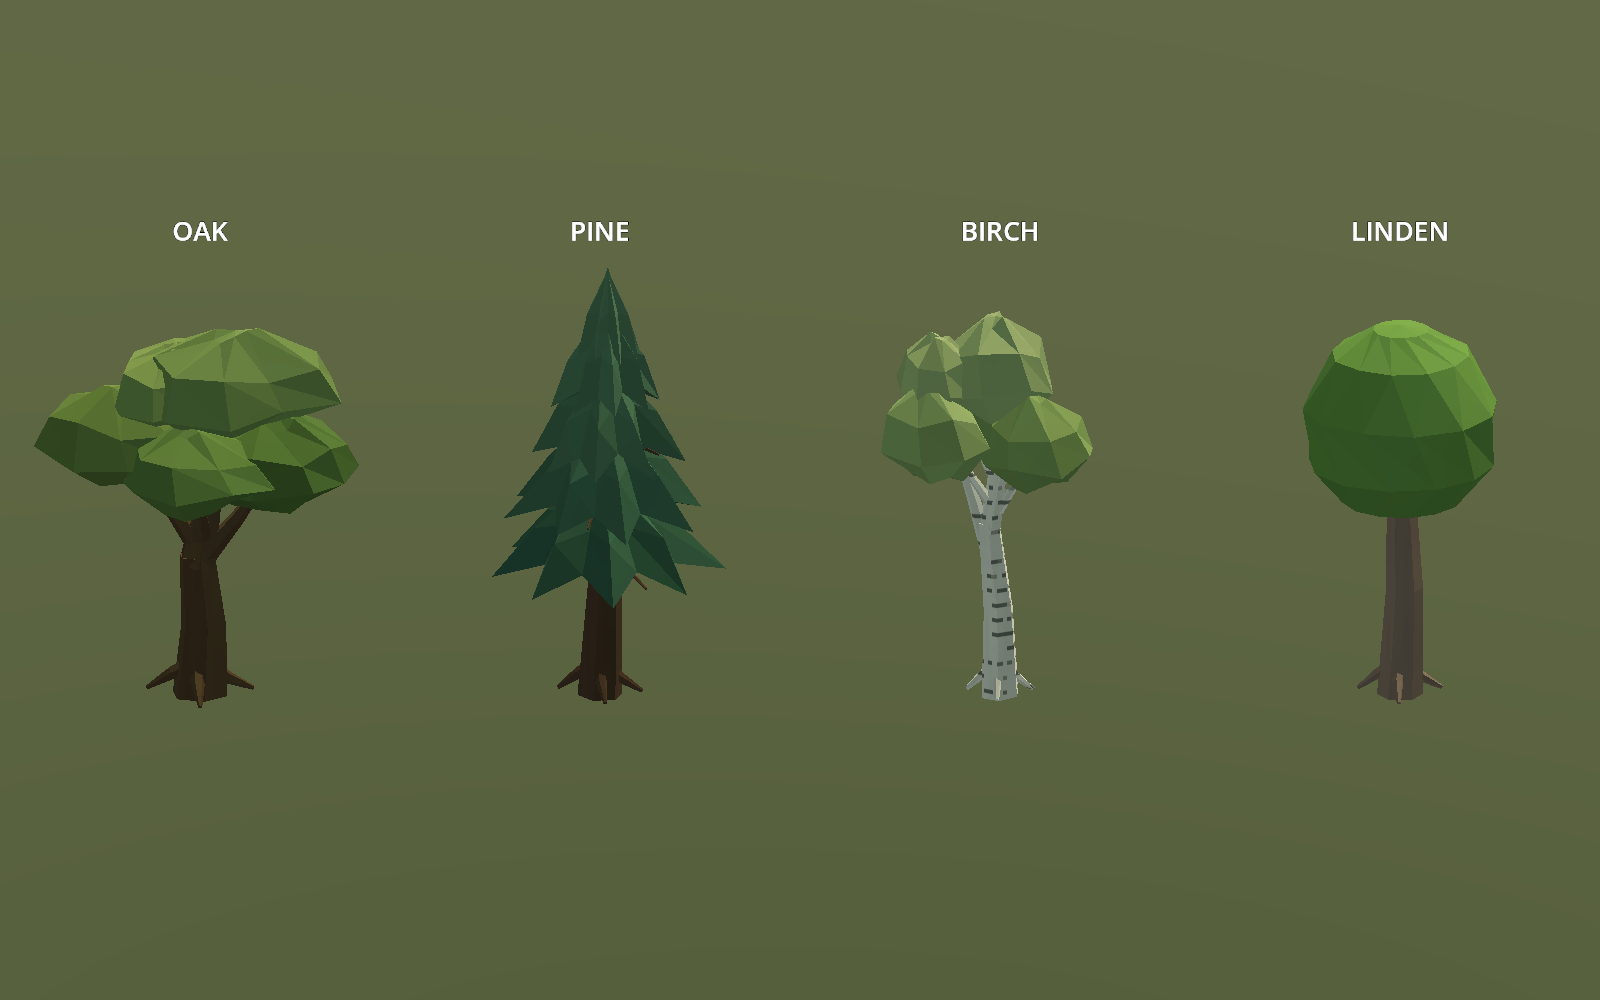
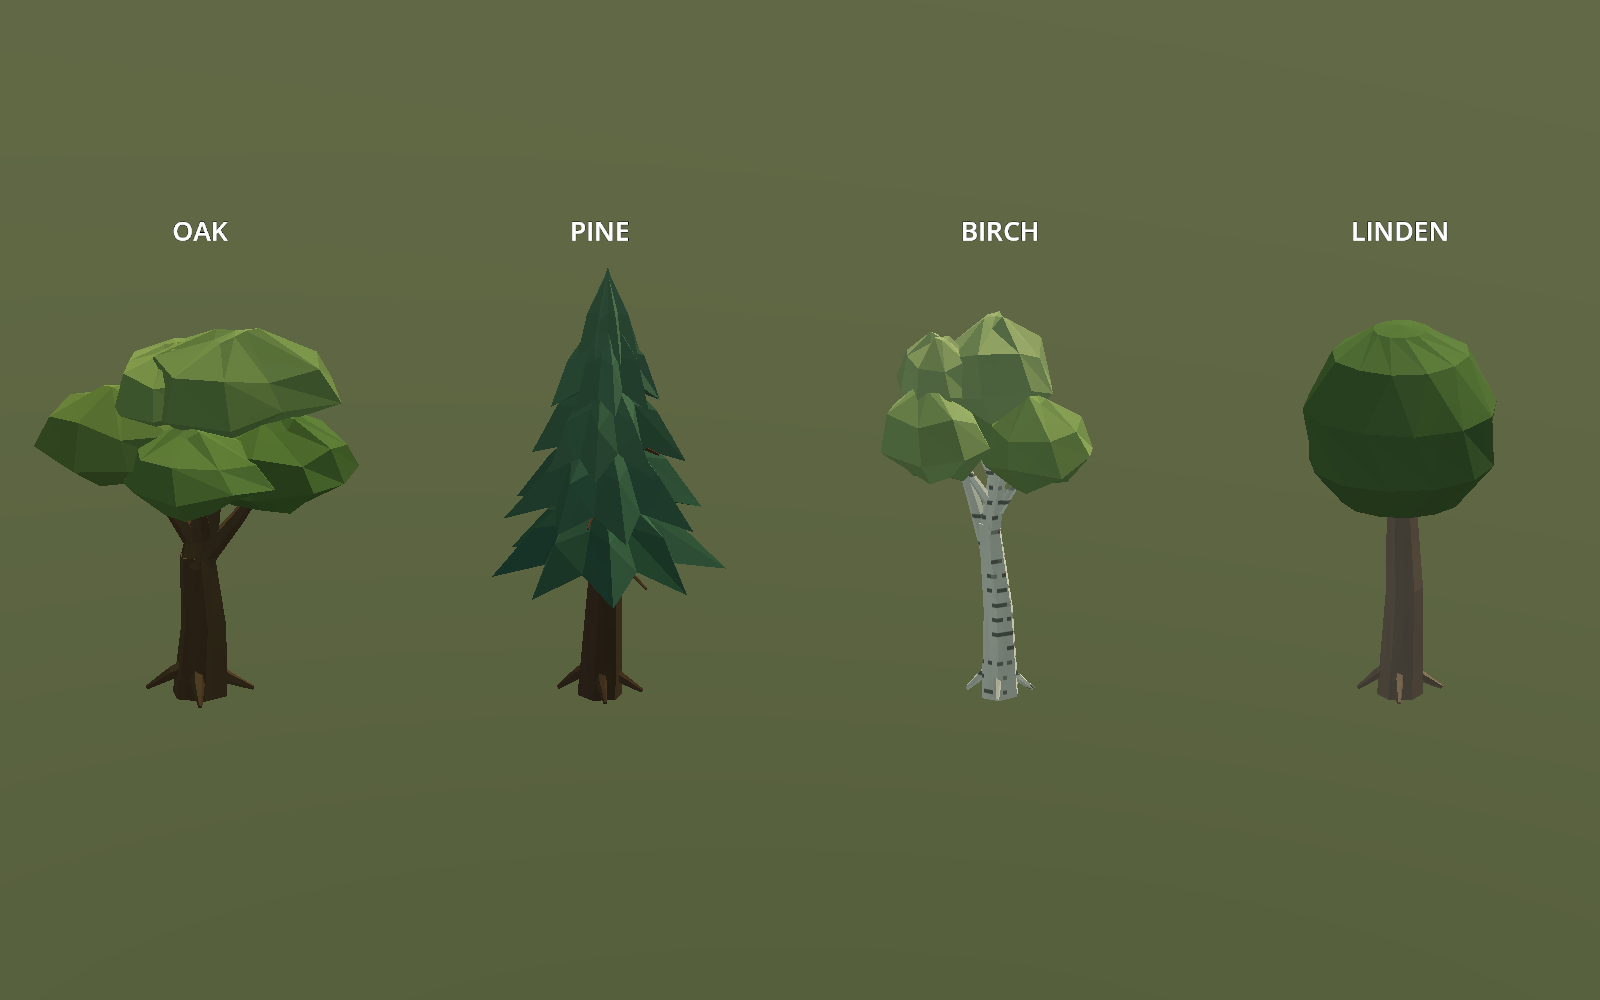
피나무 잎 톤을 낮추고 비율을 1/7로 줄이기

Changed region(s): [[0.8125, 0.31, 0.9375, 0.434]]

diff --git a/maps/MapWorld.cs b/maps/MapWorld.cs
@@ -225,7 +225,8 @@ public partial class MapWorld : Node3D
     public void SetLocalTeam(uint team)
     { foreach (Node child in GetChildren()) if (child is SpawnZoneView zone) zone.SetLocalTeam(team); }
 
-    // 네 수종(참나무·소나무·자작나무·피나무)을 섞되 2×2 격자에서 줄무늬가 지지 않도록 좌표를 섞습니다.
+    // 네 수종을 섞되 2×2 격자에서 줄무늬가 지지 않도록 좌표를 섞습니다. 참나무·소나무·자작나무가
+    // 2/7씩, 다듬은 피나무는 1/7입니다.
     // 외형만 정하며 서버 판정과는 무관합니다.
     private static uint TreeVariant(int x, int z)
     {
@@ -233,7 +234,8 @@ public partial class MapWorld : Node3D
         h ^= h >> 15;
         h *= 0x2C1B3C6Du;
         h ^= h >> 12;
-        return h % 4;
+        uint bucket = h % 7;
+        return bucket == 6 ? 3u : bucket / 2;
     }
 
     private void ResetTrees()

diff --git a/CHANGELOG.md b/CHANGELOG.md
@@ -6,7 +6,7 @@
 ## 2026-10-16
 
 - 지면과 외벽을 바꿨습니다. 도로 포석의 전체 톤을 낮춰 유닛과 건물이 더 잘 보이게 했고, 빛바랜 어두운 옛 포석이 군데군데 무리 지어 섞입니다(`Ground.gdshader`). 외벽 둘레의 약 30% 구간은 총안이 떨어져 나가고 철띠·철판으로 보강한 어둡고 빛바랜 옛 성벽입니다(`TerrainBuilder.build_walls`, `Wall.gdshader`의 `streak_strength`·`colour_fade`). 지도 데이터·충돌·시야·맵 해시는 그대로이며 편집용 지형 캐시만 다시 만들었습니다.
-- 네 번째 나무인 피나무(`resources/trees/Linden.tscn`, 외형 3)를 추가했습니다. 곧은 줄기 위에 둥글게 다듬은 수관 하나를 얹은 깔끔한 나무로, 울퉁불퉁한 참나무·갈라진 자작나무와 실루엣이 다릅니다. 수종은 이제 `(x + z) % 3` 대신 시작 칸 좌표를 섞은 값으로 네 종 중에서 골라 2×2 격자에서 줄무늬가 생기지 않습니다. 외형만 바뀌며 서버 판정·자원 ID·벌목은 그대로입니다.
+- 네 번째 나무인 피나무(`resources/trees/Linden.tscn`, 외형 3)를 추가했습니다. 곧은 줄기 위에 둥글게 다듬은 수관 하나를 얹은 깔끔한 나무로, 울퉁불퉁한 참나무·갈라진 자작나무와 실루엣이 다릅니다. 수종은 이제 `(x + z) % 3` 대신 시작 칸 좌표를 섞은 값으로 고르며(참나무·소나무·자작나무 2/7씩, 피나무 1/7) 2×2 격자에서 줄무늬가 생기지 않습니다. 피나무 잎은 숲에서 튀지 않도록 다른 나무보다 한 톤 어둡습니다. 외형만 바뀌며 서버 판정·자원 ID·벌목은 그대로입니다.
 - 기술연구소(타입 9)를 고급스럽지만 먼지가 쌓여 빛바랜 마법 공학 천문대로 손봤습니다. 흰 회벽과 목조 골조를 회백색 석회암과 대리석 기둥으로 바꾸고, 진영색 칠 문을 단 기둥 현관, 청록빛이 희미한 아치 창, 녹청이 흘러내린 구리 돔, 금박 갈퀴에 물린 마력 결정 첨탑, 불꽃 튀는 테슬라 코일, 천천히 도는 혼천의를 더했습니다. 창턱·계단·처마에는 먼지가, 그 아래로는 때 자국이 남습니다. 돔과 망원경 배치, 점유 영역 4×4는 그대로입니다.
 - 공방(타입 8)의 표시 이름을 **공장**으로 바꿨습니다(건설 메뉴, 선택 정보, 미리보기, 문서). 서버 표시 이름도 같은 날 바뀌며 타입·키(`workshop`)·씬 파일 이름은 그대로입니다.
 - 공방(타입 8)을 기계 조립 공장으로 다시 만들었습니다. 벽돌 아랫벽 위 그을린 유리 띠, 철골 유리 박공지붕과 진영색 채광탑, 열린 정문 안에서 조립 중인 보행 차체, 앞마당에서 보일러를 내리는 진영색 문형 크레인, 옆벽에서 계속 도는 플라이휠, 지붕 배관의 하얀 증기로 구성했습니다. 검은 조병창(연기·불티)과 밝은 브랜치(아치 창고·크레인)와 실루엣과 연출이 다릅니다. 점유 영역 4×4는 그대로입니다.

diff --git a/docs/map.md b/docs/map.md
@@ -109,7 +109,7 @@
 | 돌길·잔디 | `maps/materials/Ground.gdshader` | 톤을 낮춘 포석·줄눈·먼지·가는 실금, 군데군데 무리 지어 섞인 빛바랜 어두운 옛 포석(평평하게 닳고 살짝 꺼졌으며 줄눈에서 때가 번짐), 풀 얼룩·클로버 |
 | 유전 균열·기름 | `maps/Oilfield.tscn` | 네 곳이 같은 모델 공유. 지그재그 균열·갈라진 암반과 틈에서 낮게 솟는 기름. 상호작용·충돌 노드 없음 |
 | 벽 | `maps/materials/Wall.gdshader`, `TerrainBuilder.build_walls` | 석회암·이끼·가는 균열·빗물 자국. 둘레의 약 30% 구간은 총안이 떨어져 나가고 철띠와 철판으로 보강한, 어둡고 빛바랜 옛 성벽 |
-| 나무 | `resources/trees/SculptedTree.gd`, `Foliage.gdshader` | 참나무·자작나무·침엽수와 깔끔하게 다듬은 둥근 수관의 피나무. 수종은 시작 칸 좌표를 섞어 고르고, 같은 수종 안에서는 고정 변형과 자원 ID 기반 회전·크기 |
+| 나무 | `resources/trees/SculptedTree.gd`, `Foliage.gdshader` | 참나무·자작나무·침엽수와 깔끔하게 다듬은 둥근 수관의 피나무(약 1/7, 숲에서 튀지 않게 한 톤 어둡게). 수종은 시작 칸 좌표를 섞어 고르고, 같은 수종 안에서는 고정 변형과 자원 ID 기반 회전·크기 |
 
 `LayoutGuides`에는 본진 마커, 공격로 경로, 활동 구역·확장 부지의 기준점이 있습니다. 미니언의 실제 경유지는 JSON의 `lanes`를 사용합니다.
 
